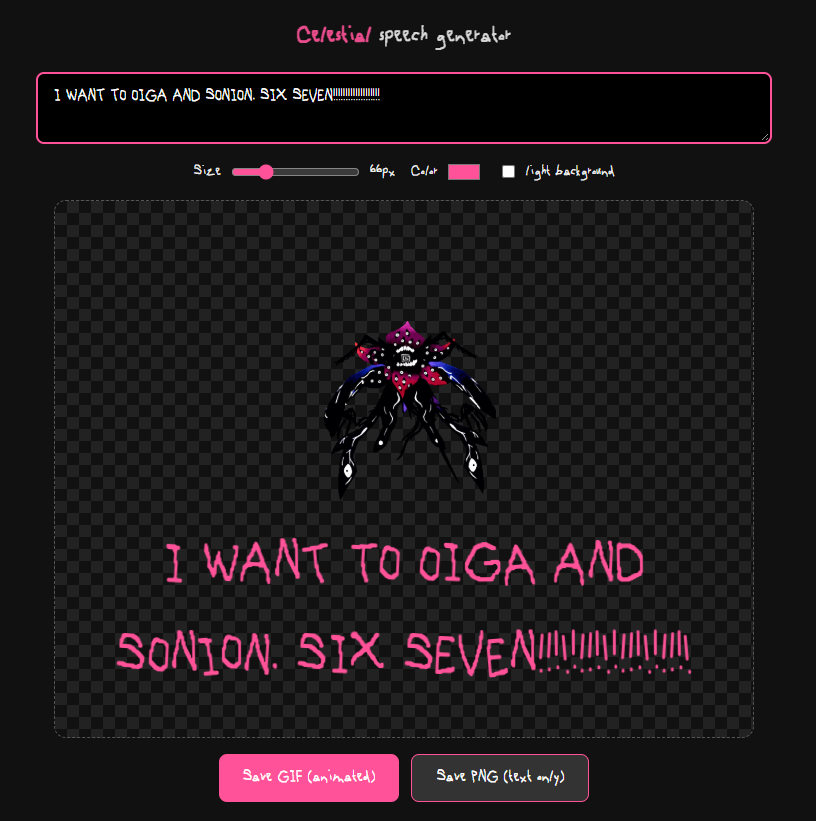
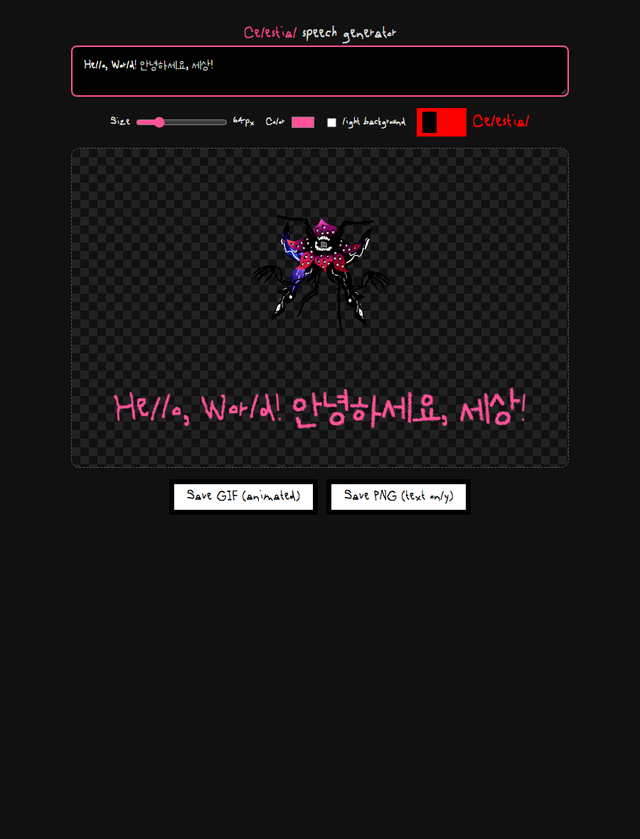
Fresh README shots, GolaCSS docs, ?mode= link param

diff --git a/index.html b/index.html
@@ -142,6 +142,12 @@
     preview.style.color = MODES[mode].color;
     modeLabel.textContent = MODES[mode].label;
   });
+  try {
+    if (new URLSearchParams(location.search).get('mode') === 'mart') {
+      martToggle.checked = true;
+      martToggle.dispatchEvent(new Event('change'));
+    }
+  } catch (e) {}
   renderPreview();
 
   function download(blob, filename) {

diff --git a/README.md b/README.md
@@ -1,5 +1,5 @@
 # [Celestial speech generator](https://muffler-2597.github.io/Celestial-speech-generator/)
-![테스트 이미지](test.png)
+<img src="test.png" width="380"> <img src="test-mart.png" width="380">
 
 글쎄요. 저도 이게 뭔지도 모르겠습니다. 영어 + 한글 지원합니다.
 
@@ -10,6 +10,10 @@
 - 폰트 (오모리)
 
 링크 : https://muffler-2597.github.io/Celestial-speech-generator/
+
+## GolaCSS 연동
+
+UI 스킨은 [GolaCSS](https://github.com/Muffler-2597/GolaCSS)를 CDN(`@master`)으로 직접 땡겨 씁니다. 파일 없음. GolaCSS 리포가 업데이트되면 따라서 바뀝니다. 저장 버튼 + 마트 토글에 쓰는 중. 폰트는 오모리+암스테르담으로 강제 고정 (Gola 리셋 씹음).
 
 ---
 ## Credits / 출처 (법적 고지)
